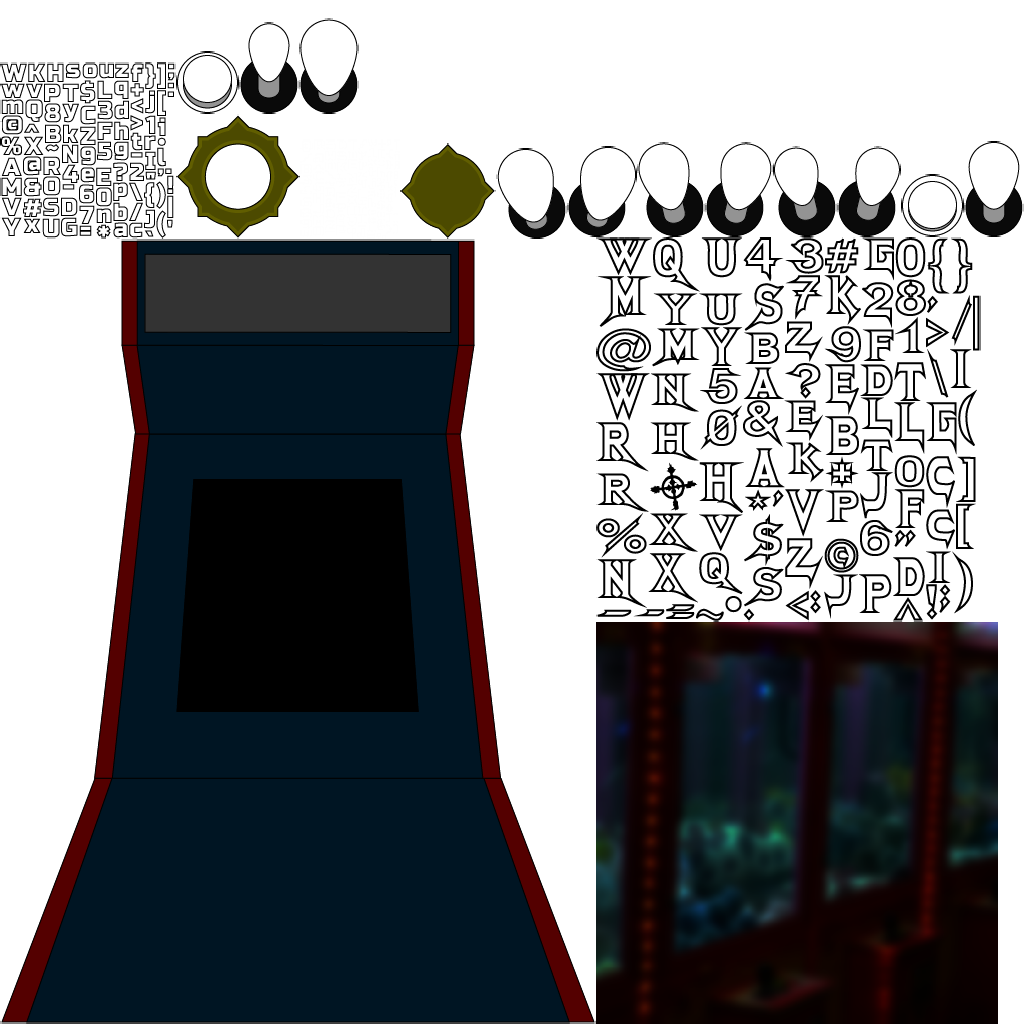
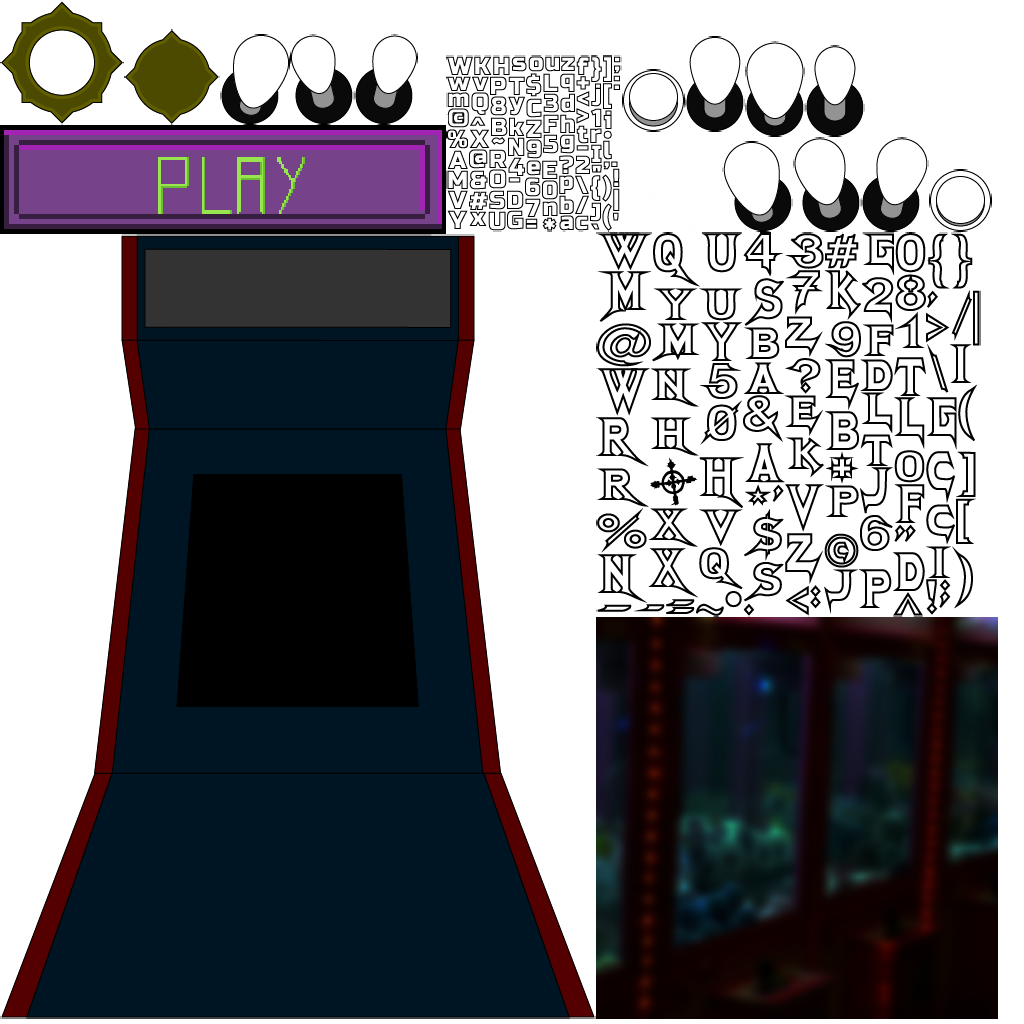
Assets

diff --git a/Jogo/core/src/com/gdx/game/MenuScreen.java b/Jogo/core/src/com/gdx/game/MenuScreen.java
@@ -22,11 +22,14 @@ public class MenuScreen implements Screen{
     private Button button;
     private Skin skin;
 
-    Texture background;
+    Texture background, menuIniciar;
 
     public MenuScreen(final Main main) {
     	
-    	background = new Texture("template.jpg");
+    	System.out.println("Foi");
+    	
+    	background = new Texture("cinza.png");
+    	menuIniciar = new Texture("Logo.png");
     	
     	skin = new Skin(Gdx.files.internal("arcade/skin/arcade-ui.json"));
     	button = new Button(skin);
@@ -34,7 +37,7 @@ public class MenuScreen implements Screen{
     	menuStage = new Stage(new FitViewport(1280, 720));
     	Gdx.input.setInputProcessor(menuStage);
     	
-    	button.setPosition(440, 260); // Defina a posi��o do bot�o na tela
+    	button.setPosition(418, 163); // Defina a posi��o do bot�o na tela
     	
     	menuStage.addActor(button);
 
@@ -60,6 +63,7 @@ public class MenuScreen implements Screen{
         
         menuStage.getBatch().begin();
         menuStage.getBatch().draw(background, 0, 0);
+        menuStage.getBatch().draw(menuIniciar, 0, 0);
         menuStage.getBatch().end();
         
         menuStage.draw();

diff --git a/Jogo/core/src/com/gdx/game/MainGame.java b/Jogo/core/src/com/gdx/game/MainGame.java
@@ -81,10 +81,10 @@ public class MainGame implements Screen {
 		round = true;
 		roundCount = 1;
 
-		background = new Texture("template2.jpg");
-		tPC = new Texture("img/entities/PC/PHKingPoring.png");
-		ProjDefault = new Texture("img/entities/projectiles/PHdefault.png");
-		tKnight = new Texture("img/entities/knight/PHgoblin.png");
+		background = new Texture("background.png");
+		tPC = new Texture("slime.png");
+		ProjDefault = new Texture("tiro.png");
+		tKnight = new Texture("knight.png");
 		
 		gameStage = new Stage(new FitViewport(1280, 720));
 		Gdx.input.setInputProcessor(gameStage);
@@ -111,7 +111,7 @@ public class MainGame implements Screen {
 		gameStage.act(Gdx.graphics.getDeltaTime());
         
         gameStage.getBatch().begin();
-        gameStage.getBatch().draw(background, posX, posY);
+        gameStage.getBatch().draw(background, posX - background.getWidth() / 2 + 100, posY - background.getHeight() / 2);
 
 		gameStage.getBatch().draw(tPC, rposX - tPC.getWidth() / 2, rposY - tPC.getHeight() / 2);
 		

diff --git a/Jogo/desktop/src/com/gdx/game/DesktopLauncher.java b/Jogo/desktop/src/com/gdx/game/DesktopLauncher.java
@@ -9,7 +9,7 @@ public class DesktopLauncher {
 	public static void main (String[] arg) {
 		Lwjgl3ApplicationConfiguration config = new Lwjgl3ApplicationConfiguration();
 		config.setForegroundFPS(60);
-		config.setTitle("Slime Bolado");
+		config.setTitle("Its Slimin Time");
 		config.setWindowPosition(0, 30);
 		config.setWindowedMode(1280, 720);
 		new Lwjgl3Application(new Main(), config);
